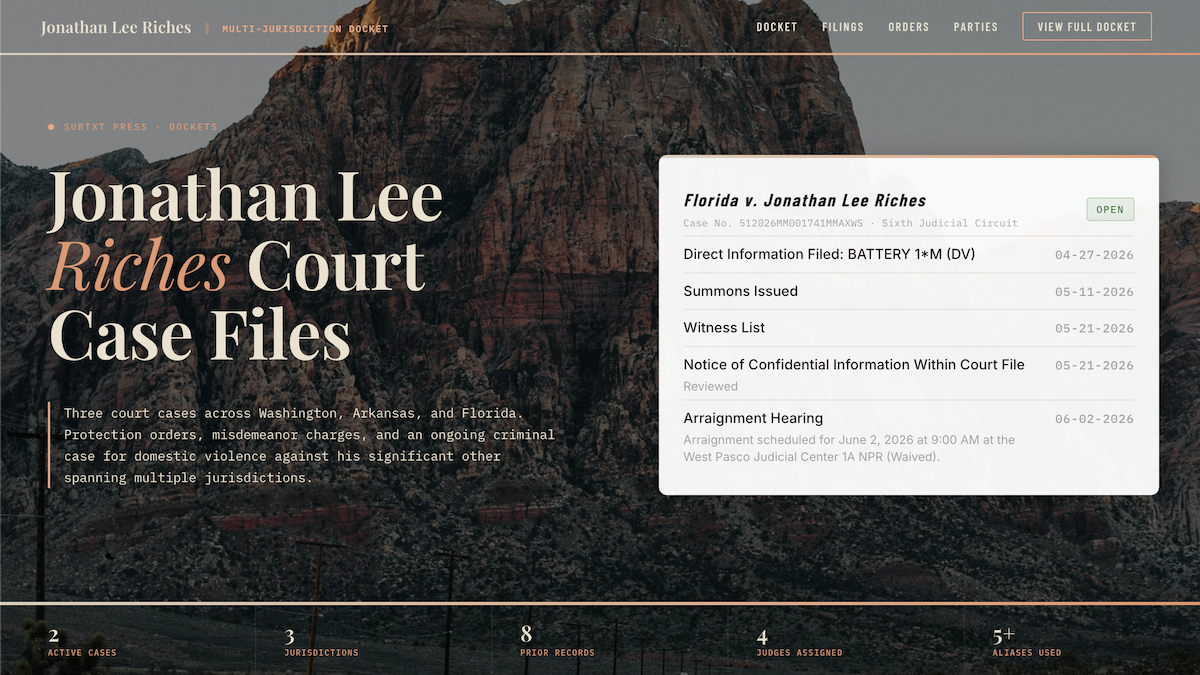
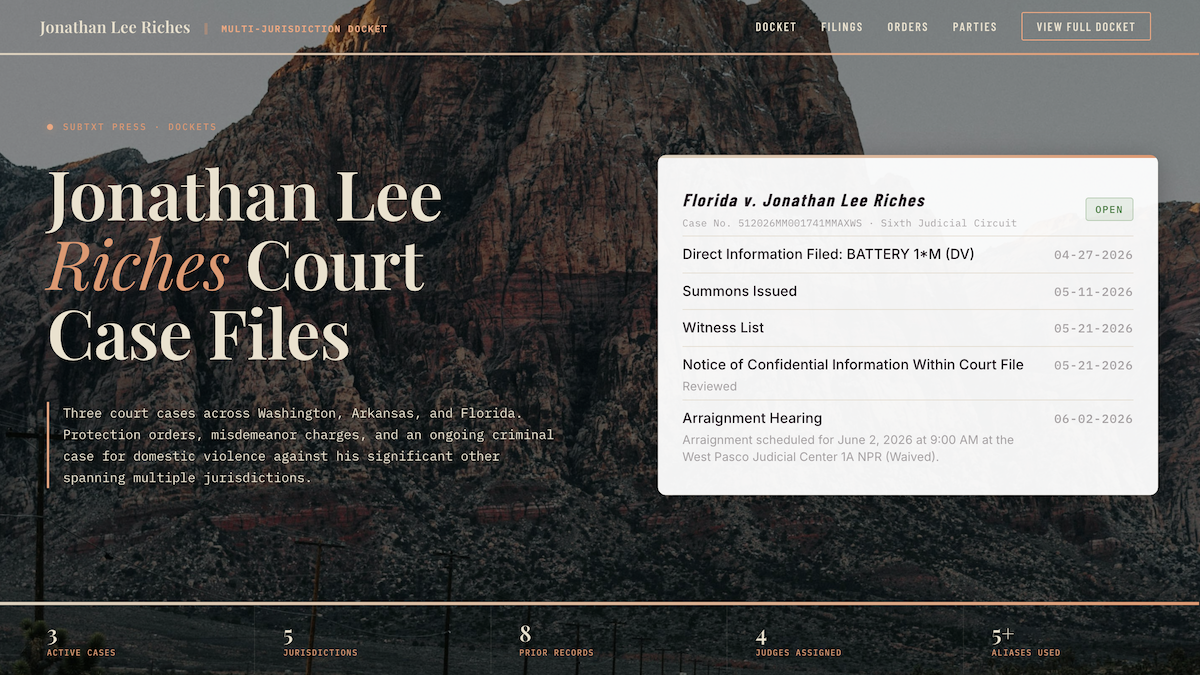
preview updated

diff --git a/dockets/JLR/img/jlr-docket-preview.html b/dockets/JLR/img/jlr-docket-preview.html
@@ -391,11 +391,11 @@
 
     <div class="stats-bar">
       <div class="stat" style="padding-left: 48px;">
-        <div class="stat-value">2</div>
+        <div class="stat-value">3</div>
         <div class="stat-label">Active Cases</div>
       </div>
       <div class="stat">
-        <div class="stat-value">3</div>
+        <div class="stat-value">5</div>
         <div class="stat-label">Jurisdictions</div>
       </div>
       <div class="stat">
